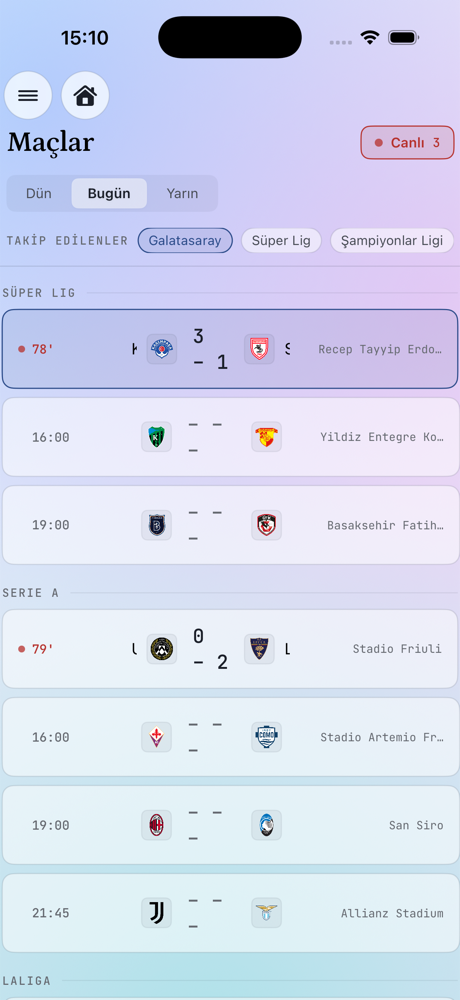
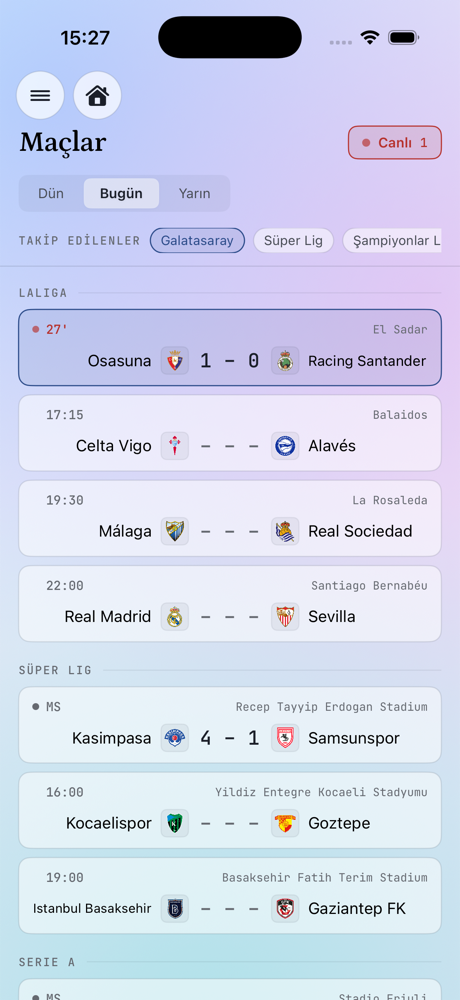
iPhone: Maçlar'da skor ve takımlar tek satırda; ekran görüntüsü yenilendi

diff --git a/ios/PANO/Shared/FutbolView.swift b/ios/PANO/Shared/FutbolView.swift
@@ -124,6 +124,38 @@ struct MatchRow: View {
         let sel = m.id == store.selectedMatch?.id
         let live = m.inPlay
         Button { store.selectedMatchID = m.id; Task { await store.loadMatchDetail() } } label: {
+            if isPhone { phoneRow(sel: sel, live: live) } else { wideRow(sel: sel, live: live) }
+        }.buttonStyle(.plain)
+    }
+
+    /// The phone is too narrow for status, both teams, score and venue on one line: status and venue go on top,
+    /// and the score keeps its width while the names give way.
+    private func phoneRow(sel: Bool, live: Bool) -> some View {
+        VStack(spacing: 8) {
+            HStack(spacing: 6) {
+                PulseDot(color: live ? T.down : m.kind == .upcoming ? .clear : T.ink3, pulsing: m.kind == .live)
+                Text(m.statusText).font(.mono(11)).foregroundStyle(live ? T.down : T.ink3)
+                Spacer(minLength: 8)
+                Text(m.venue).font(.mono(10, .regular)).foregroundStyle(T.ink3).lineLimit(1)
+            }
+            HStack(spacing: 8) {
+                Text(m.home).font(.ui(14, store.isFavorite(m.home) ? .semibold : .regular))
+                    .lineLimit(1).minimumScaleFactor(0.8).frame(maxWidth: .infinity, alignment: .trailing)
+                TeamBadge(code: m.homeCode, logo: m.homeLogo, size: 24)
+                Text(m.scoreText).font(.mono(17)).tracking(0.3).foregroundStyle(m.kind == .upcoming ? T.ink3 : T.ink)
+                    .fixedSize().padding(.horizontal, 2)
+                TeamBadge(code: m.awayCode, logo: m.awayLogo, size: 24)
+                Text(m.away).font(.ui(14, store.isFavorite(m.away) ? .semibold : .regular))
+                    .lineLimit(1).minimumScaleFactor(0.8).frame(maxWidth: .infinity, alignment: .leading)
+            }
+        }
+        .padding(.horizontal, 12).padding(.vertical, 10)
+        .background(sel ? T.accentSoft : T.paper2, in: RoundedRectangle(cornerRadius: 10))
+        .overlay(RoundedRectangle(cornerRadius: 10).stroke(sel ? T.accent : T.rule, lineWidth: 1))
+        .contentShape(Rectangle())
+    }
+
+    private func wideRow(sel: Bool, live: Bool) -> some View {
             HStack(spacing: 14) {
                 HStack(spacing: 6) {
                     PulseDot(color: live ? T.down : m.kind == .upcoming ? .clear : T.ink3, pulsing: m.kind == .live)
@@ -148,7 +180,6 @@ struct MatchRow: View {
             .background(sel ? T.accentSoft : T.paper2, in: RoundedRectangle(cornerRadius: 10))
             .overlay(RoundedRectangle(cornerRadius: 10).stroke(sel ? T.accent : T.rule, lineWidth: 1))
             .contentShape(Rectangle())
-        }.buttonStyle(.plain)
     }
 }
 
